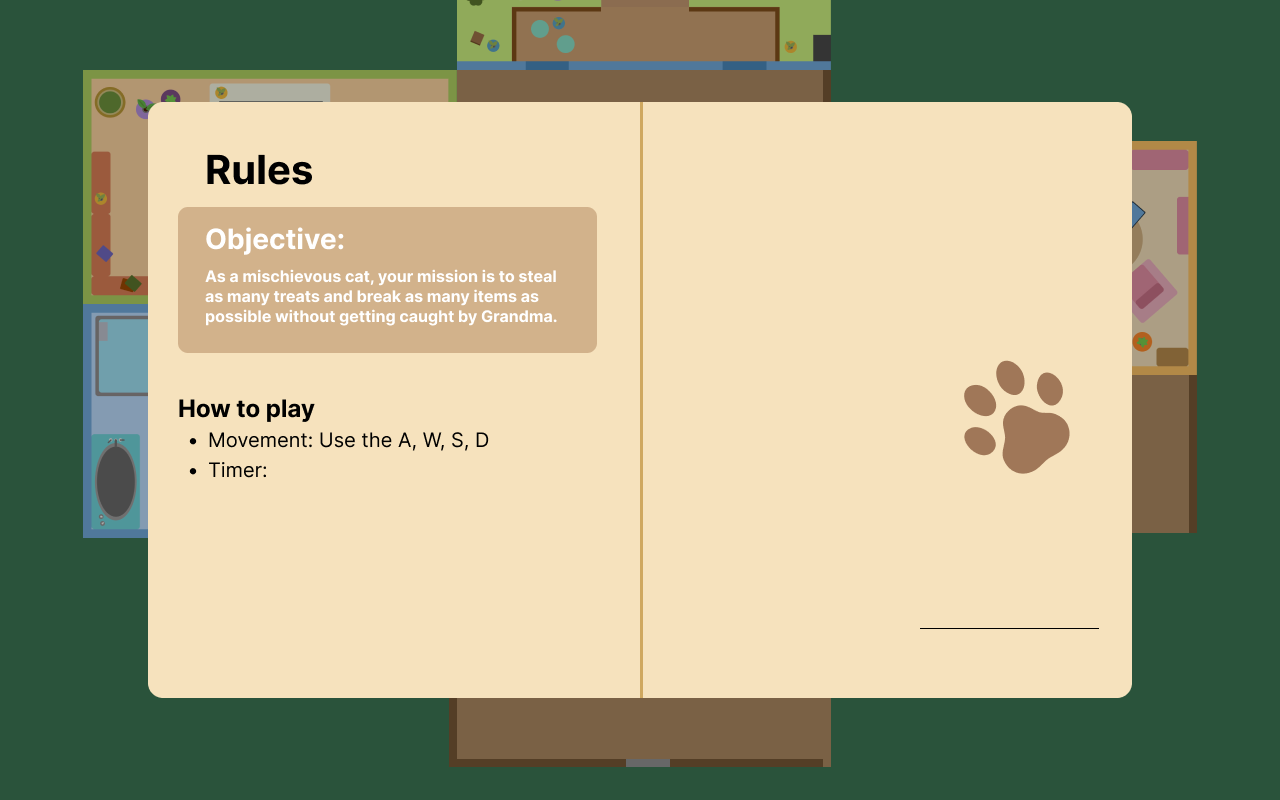
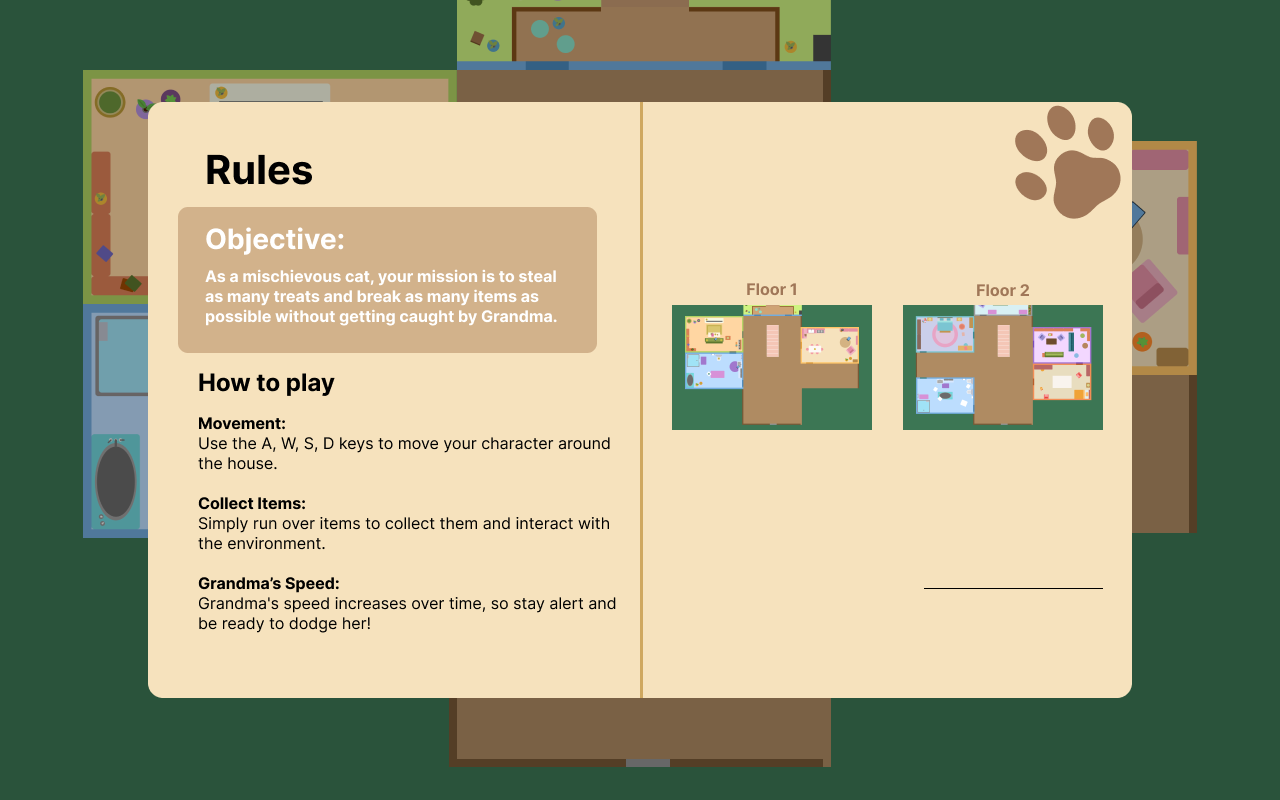
stats

diff --git a/stats/stats.css b/stats/stats.css
@@ -14,7 +14,7 @@ body {
     position: relative;
     width: 1280px;
     height: 800px;
-    background: url('../universal/Statistics\ Screen.png') no-repeat center center;
+    background: url('../universal/stats.png') no-repeat center center;
     background-size: cover;
   }
   

diff --git a/rules/rules.css b/rules/rules.css
@@ -20,8 +20,8 @@ body {
 
 .signature-section {
   position: absolute;
-  left: 750px; /* X-coordinate */
-  top: 550px;  /* Y-coordinate */
+  left: 730px; /* X-coordinate */
+  top: 510px;  /* Y-coordinate */
   width: 187x;
   height: 100px;
   display: flex;
